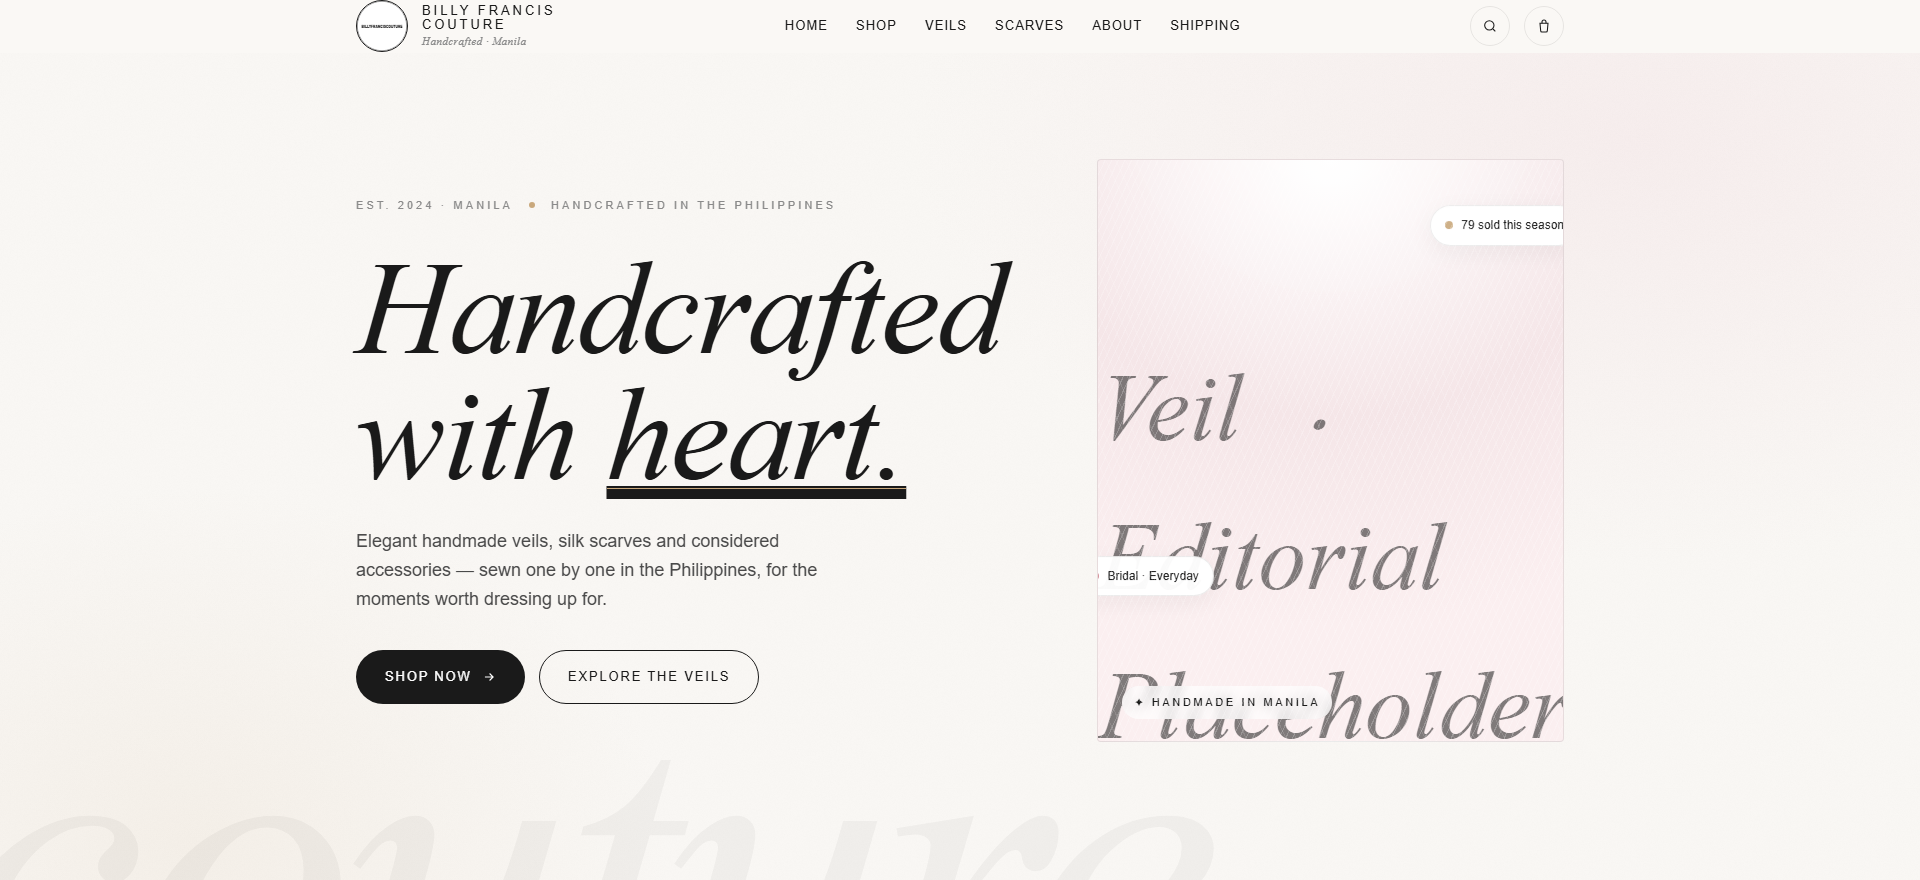
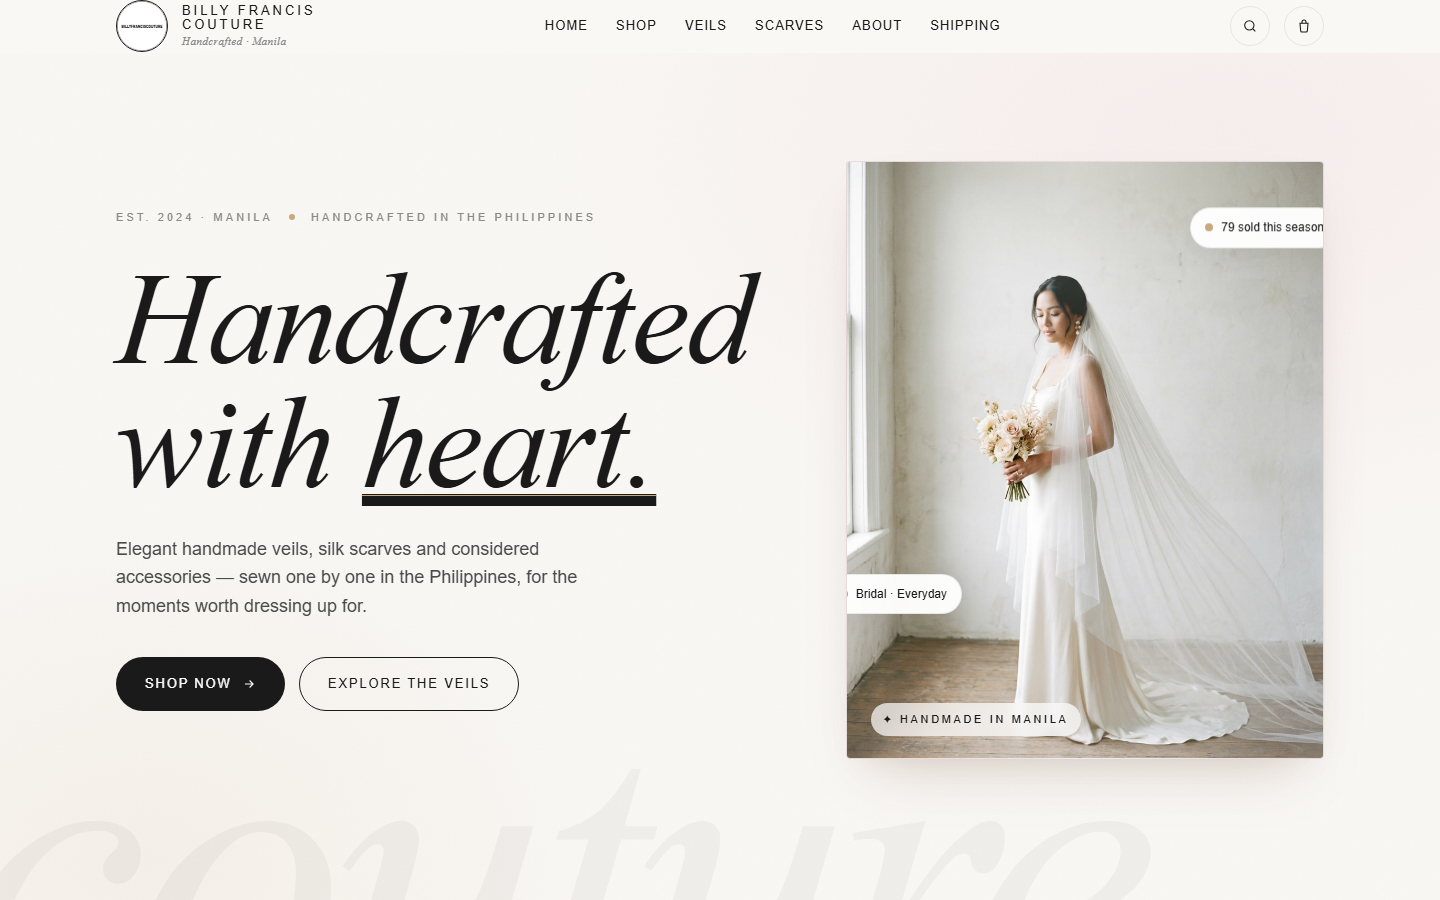
feat: swap Carto for Kairos in project showcase, refresh thumbnails
- Replace Carto card with Kairos (SaaS landing) in portfolio
- Update BFC thumbnail with fresh screenshot of live site
- Add Kairos preview image; keep source folder local-only via .gitignore

diff --git a/index.html b/index.html
@@ -377,22 +377,22 @@
 
         <article class="project-card">
           <div class="project-card__img project-card__img--photo">
-            <a href="projects/landing/index.html" target="_blank" class="project-thumb">
-              <img src="assets/landing-preview.png" alt="Carto landing page preview" loading="lazy" />
+            <a href="projects/Kairos/index.html" target="_blank" class="project-thumb">
+              <img src="assets/kairos-preview.png" alt="Kairos SaaS landing page preview" loading="lazy" />
               <span class="project-thumb__overlay">View Live →</span>
             </a>
           </div>
           <div class="project-card__body">
             <div class="project-card__meta">
-              <span class="project-tag">Landing Page</span>
-              <span class="project-tag">React</span>
+              <span class="project-tag">SaaS Landing</span>
+              <span class="project-tag">HTML</span>
               <span class="project-tag">CSS</span>
+              <span class="project-tag">JavaScript</span>
             </div>
-            <h3 class="project-card__title">Carto</h3>
-            <p class="project-card__desc">A focused landing page for a fictional brand. Clean type, deliberate whitespace, one clear CTA above the fold.</p>
+            <h3 class="project-card__title">Kairos</h3>
+            <p class="project-card__desc">A long-form marketing site for a fictional revenue intelligence platform. Animated hero, bento feature grid, tabbed product demo, pricing, FAQ, and signup modals — all hand-built in vanilla HTML, CSS, and JS.</p>
             <div class="project-card__links">
-              <a href="projects/landing/index.html" target="_blank" class="project-link">Live Demo →</a>
-              <a href="#" class="project-link">GitHub →</a>
+              <a href="projects/Kairos/index.html" target="_blank" class="project-link">Live Demo →</a>
             </div>
           </div>
         </article>
